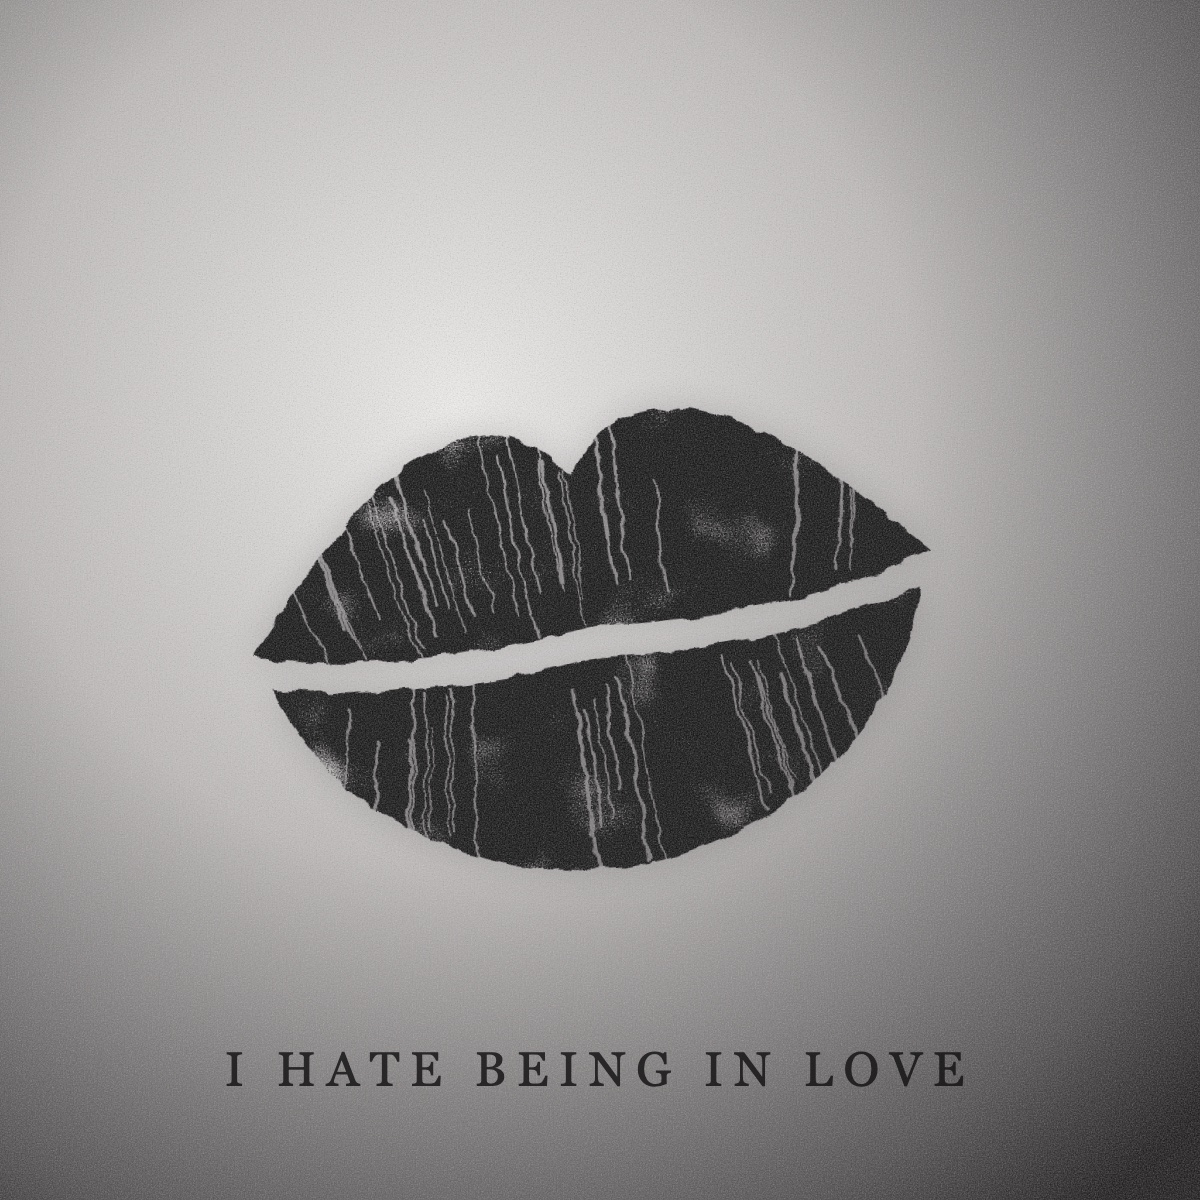
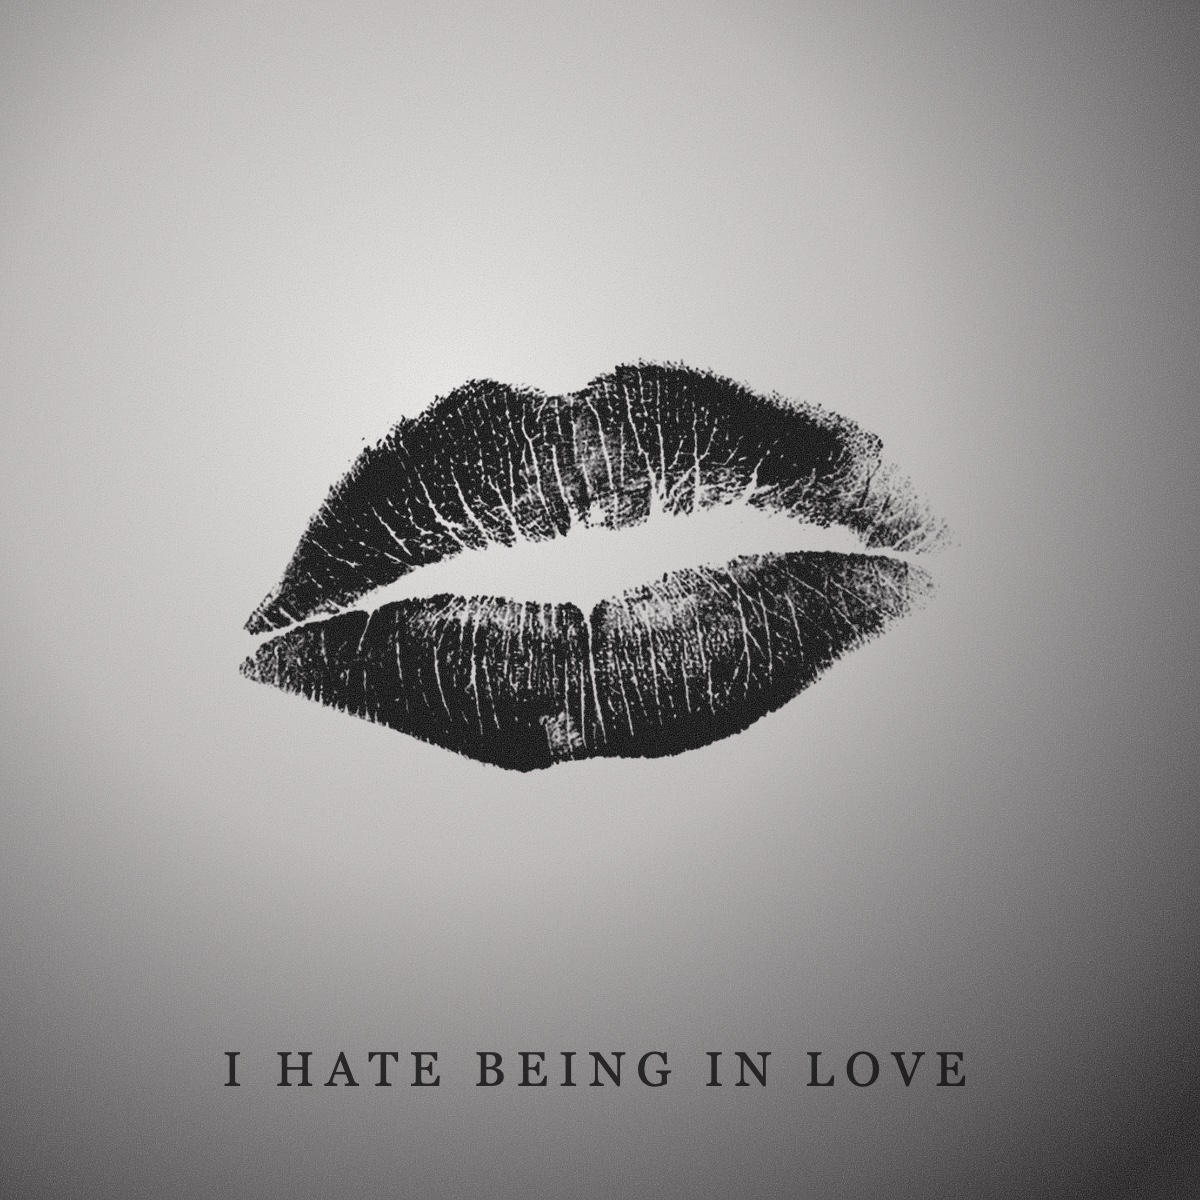
Nouvelle trace de lèvres sur la cover de I HATE BEING IN LOVE

Changed region(s): [[0.185, 0.2775, 0.8017, 0.74], [0.74, 0.8633, 0.8017, 0.8942]]

diff --git a/tracks.js b/tracks.js
@@ -43,7 +43,7 @@ const TRACKS = [
     title: "I HATE BEING IN LOVE",
     artist: "D-wrist",
     mood: "lipstick", // ambiance du lecteur : "lipstick" (sans = gris)
-    cover: "covers/i-hate-being-in-love.jpg",
+    cover: "covers/i-hate-being-in-love.jpg?v=2",
     audio: "audio/i-hate-being-in-love.wav",
     lyrics: `
 [00:03.46](Huh, huh, huh yah)
